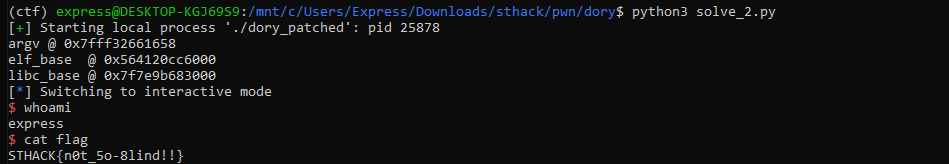
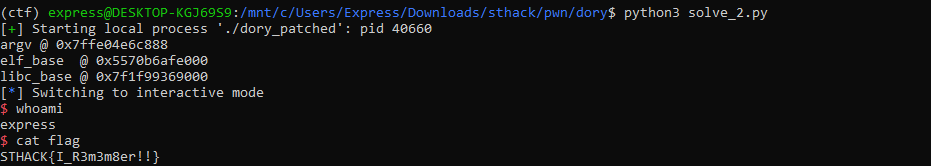
fix ortho and image

Changed region(s): [[0.0, 0.0305, 0.841, 0.7012], [0.0, 0.7317, 0.218, 1.0]]

diff --git a/2024/sthack/pwn/dory/wu_fr.md b/2024/sthack/pwn/dory/wu_fr.md
@@ -5,7 +5,7 @@ Catégorie : `pwn`
 
 Difficulté : `hard`
 
-Nombre de résolutions : 1
+Nombre de résolutions : `1`
 
 > Dory voyage parmi les étoiles de mer, tout ce dont elle se rappelle, son nom... Aidez là à retrouver sa coquille...<br>
 > `nc seastars.boisson.homeip.net 40011`.
@@ -55,7 +55,7 @@ Le bug est bien évidemment une simple format string, mais pas vraiment si simpl
 
 Vous l'avez remarquer, l'appel à la fonction `printf` affiche le contenu de `argv[0]`. Cela fait de cet appel une bonne cible pour avoir une primitive de lecture, en modifiant la valeur de `argv[0]` on peut lire où l'on souhaite.
 
-Sachant que l'on n'a pas de leak de la stack, cela signifie que nous devrons nous localiser sur la stack, et c'est probablement la partie la plus dûre du challenge. Pour cela deux solutions s'offre à nous.
+Sachant que l'on n'a pas de leak de la stack, cela signifie que nous devrons nous localiser sur la stack, et c'est probablement la partie la plus dure du challenge. Pour cela deux solutions s'offre à nous.
 
 ### Réécriture du LSB de l'argv
 
@@ -71,9 +71,9 @@ Heureusement pour nous, `argv` est situé plus loin sur la stack ce qui fait que
 
 [![argv_index.png](./assets/argv_index.png)](./assets/argv_index.png)
 
-Pourquoi l'index 5 ? Parce que la fonction `fprintf` utilise déjà deux arguments (**RDI**: stream, **RSI**: format), donc les arguments qui suivent seront dans **RDX**, **RCX**, **R8**, **R9** puis sur la stack. Et comme on peut le constater sur l'image au-dessus, `argv` est référence sur le haut de la stack au premier index.
+Pourquoi l'index 5 ? Parce que la fonction `fprintf` utilise déjà deux arguments (**RDI**: stream, **RSI**: format), donc les arguments qui suivent seront dans **RDX**, **RCX**, **R8**, **R9** puis sur la stack. Et comme on peut le constater sur l'image au-dessus, `argv` est référencé sur le haut de la stack au premier index.
 
-Maintenant il faut que l'on puisse réécire avec certitude la valeur de `argv[0]` avec une adresse fixe. Pour cela nous allons utilisé une fonctionnalité de la famille de `printf`, l'indicateur de largeur de champs ou *width* en anglais.
+Maintenant il faut que l'on puisse réécrire avec certitude la valeur de `argv[0]` avec une adresse fixe. Pour cela nous allons utiliser une fonctionnalité de la famille de `printf`, l'indicateur de largeur de champs `*` ou *width* en anglais.
 
 Passons à l'exploitation, cette simple charge utile `%*5$c%5$hn` a pour objectif de récupérer la valeur à l'index 5, ici `argv`, puis d'écrire autant d'espaces pour ensuite réécrire les deux octets de poids faible de `argv[0]`. Cela nous permet de leak l'adresse de `argv` à coup sûr à chaque fois.
 
@@ -81,7 +81,7 @@ Prenons un exemple pour mieux visualiser ce qui se trame derrière ce trick. Voi
 
 [![argv_overwrite_example_before.png](./assets/argv_overwrite_example_before.png)](./assets/argv_overwrite_example_before.png)
 
-A l'index 5 on a l'`argv` comme avant, et à l'index 11 la valeur `0x1337` qui dans notre cas réél serait l'adresse de `argv`. Il va donc d'abord y avoir 0x1337 espaces d'écrit avant que `%5$hn` écrive à l'index 5 (`argv`) ce nombre :
+A l'index 5 on a l'`argv` comme avant, et à l'index 11 la valeur `0x1337` qui dans notre cas réel serait l'adresse de `argv`. Il va donc d'abord y avoir 0x1337 espaces d'écrits avant que `%5$hn` écrive à l'index 5 (`argv`) ce nombre :
 
 [![argv_overwrite_example_after.png](./assets/argv_overwrite_example_after.png)](./assets/argv_overwrite_example_after.png)
 
@@ -140,7 +140,7 @@ LABEL (width_asterics):
 
 Avant de pouvoir lire à une adresse arbitraire, il nous faut d'abord construire notre primitive d'écriture pour forger un faux `argv` sur la stack. Etant donné que l'on est limité en taille, pour écrire des adresses hors stack il nous faudra plusieurs écritures (on peut passer encore par le trick avec l'`*` mais ce n'est pas primordial).
 
-Notre objectif sera de modifié les deux octets de poids faible de `argv` pour pointer vers l'adresse de notre pointeur sur la stack, ensuite on pourra restaurer `argv` à l'état initial.
+Notre objectif sera de modifier les deux octets de poids faible de `argv` pour pointer vers l'adresse de notre pointeur sur la stack, ensuite on pourra restaurer `argv` à l'état initial.
 
 Pour ce faire, cette fonction dans l'exploit nous permet d'écriture 2 octets par 2 octets un entier 64-bits à une adresse arbitraire :
 
@@ -157,7 +157,7 @@ def write(self, addr: int, value: int):
     self.io.clean()
 ```
 
-Une autre fonction utile pour écrire des valeurs qui ne rentre pas à cause de la limite de l'entrée, et qui utilise le trick avec l'`*`. La valeur est stocké à une adresse (ici l'adresse qu'on pourra accèder à l'index 21), puis écrite à une adresse arbitraire :
+Une autre fonction utile pour écrire des valeurs qui ne rentre pas à cause de la limite de l'entrée, et qui utilise le trick avec l'`*`. La valeur est stockée à une adresse (ici l'adresse qu'on pourra accéder à l'index 21), puis écrite à une adresse arbitraire :
 
 ```py
 def write_one(self, addr: int, value: int):
@@ -197,7 +197,7 @@ Afin d'obtenir un shell nous avons plusieurs choix, on peut passer par un one ga
 
 ### one_gadget
 
-Avec l'outil [`one_gadget`](https://github.com/david942j/one_gadget) on peut récupèrer la liste des candidats pour un one gadget :
+Avec l'outil [`one_gadget`](https://github.com/david942j/one_gadget) on peut récupérer la liste des candidats pour un one gadget :
 
 ```c
 0x4d8cc posix_spawn(rsp+0xc, "/bin/sh", 0, rbx, rsp+0x50, environ)
@@ -259,10 +259,10 @@ io.send(f"%5$lln".encode())
 io.io.sendline(b"%*15$c%13$n%*16$c%14$hn")
 ```
 
-Vous pouvez retrouver les exploits complets [ici](https://github.com/expressitoo/ctf-wu/blob/main/2024/sthack/pwn/dory/), le premier nécessite deux bruteforces de 4-bits (un succès de 1/10 pendant les tests), dans le cadre du CTF le plus rapide ne veut pas dire le plus stable. Tandis que le deuxième nécessite seulement un bruteforce de 4-bits pour les 32-bits de l'argv qui doivent être inférieur à un `INT_MAX` (un succès de 1/3 pendant les tests).
+Vous pouvez retrouver les exploits complets [ici](https://github.com/expressitoo/ctf-wu/blob/main/2024/sthack/pwn/dory/), le premier nécessite de bruteforcer 4 bits à deux reprises (un succès de 1/10 pendant les tests), dans le cadre du CTF le plus rapide ne veut pas dire le plus stable. Tandis que le deuxième nécessite seulement de bruteforcer 4-bits pour les 32-bits de l'argv qui doivent être inférieur à un `INT_MAX` (un succès de 1/3 pendant les tests).
 
 Enfin voici le résultat après exécution du script :
 
 [![flag.png](./assets/flag.png)](./assets/flag.png)
 
-Flag : `STHACK{n0t_5o-8lind!!}`
+Flag : `STHACK{I_R3m3m8er!!}`
